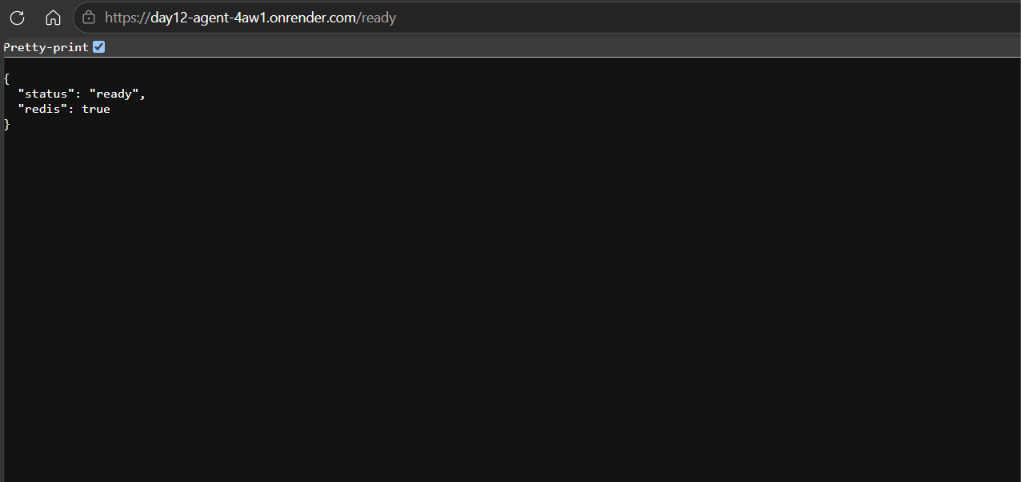
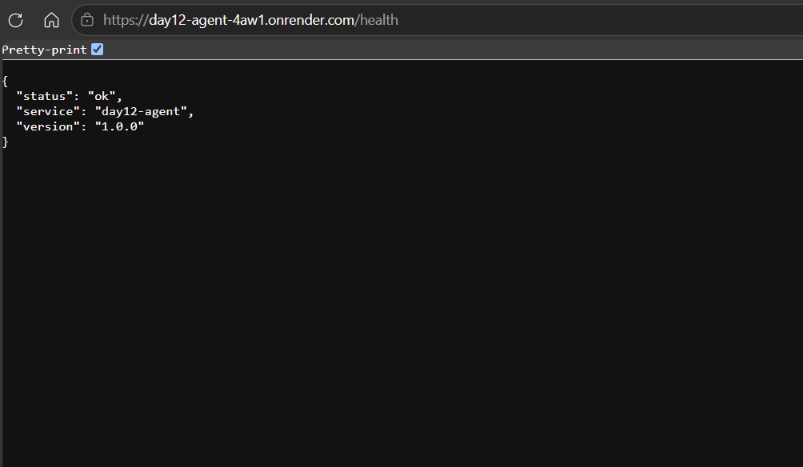
docs: update day 12 cloud services and deployment exercises

Changed region(s): [[0.0, 0.0, 1.0, 1.0]]

diff --git a/screenshots/README.md b/screenshots/README.md
@@ -1,4 +1,4 @@
 # Đặt ảnh chụp màn hình bản deploy vào thư mục này
 ![alt text](dashboard.png)
-![alt text](image.png)
+![alt text](ready.png)
 ![alt text](health.png)
